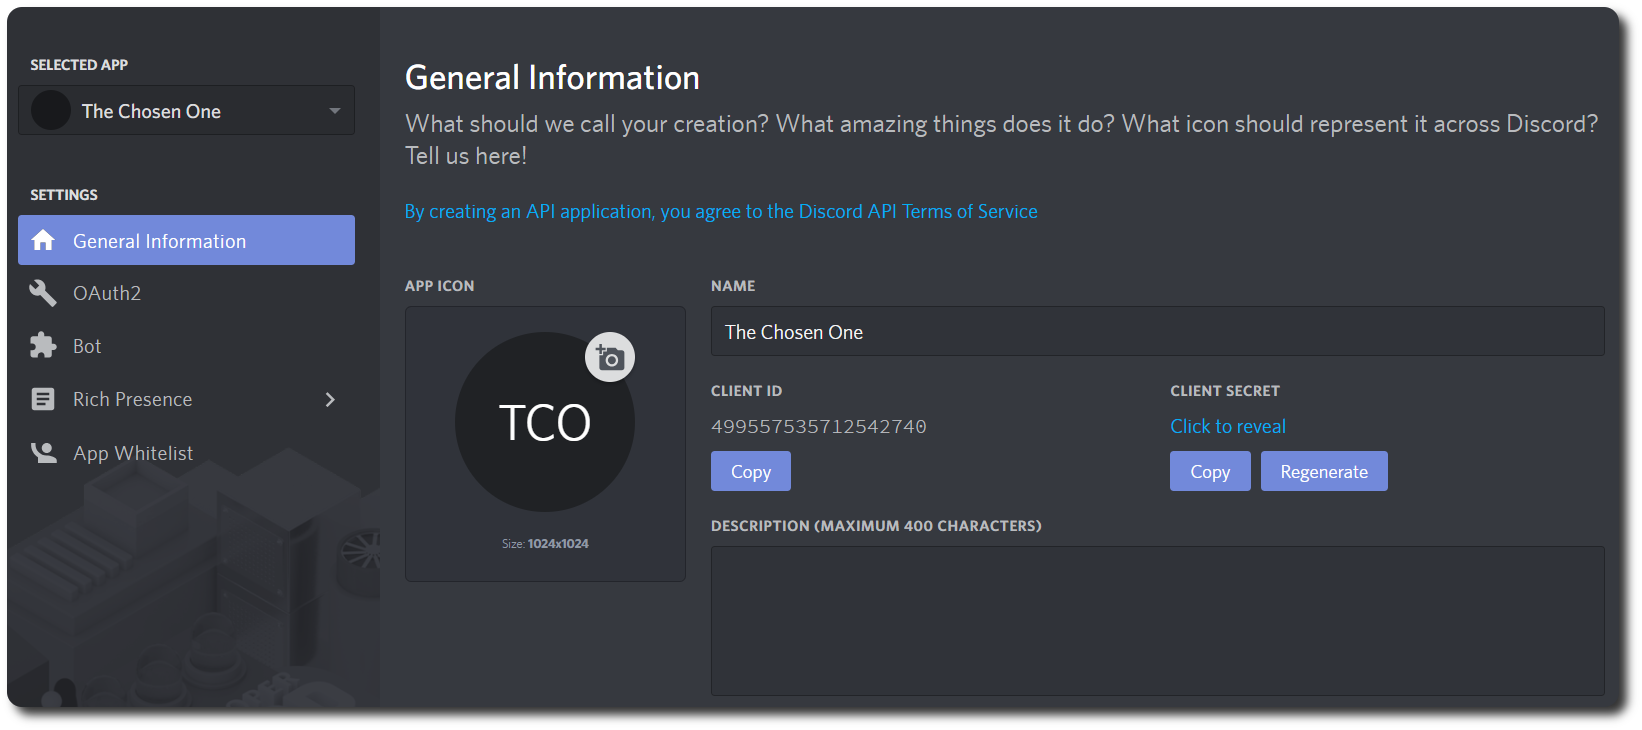
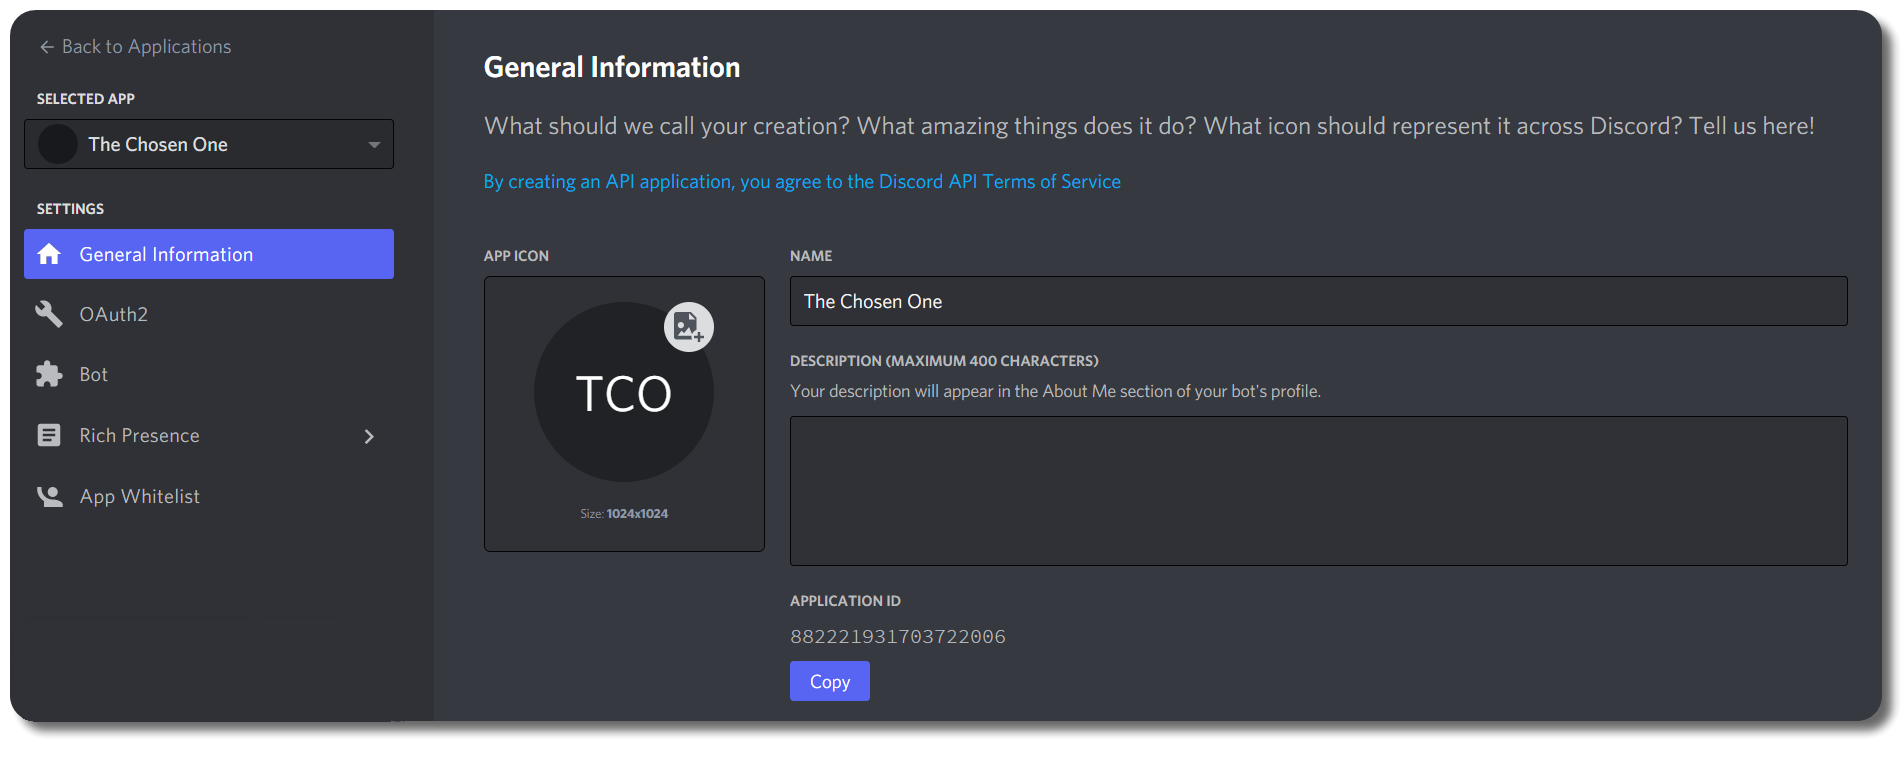
Change Client ID to Application ID (#10)

diff --git a/docs/Installation.md b/docs/Installation.md
@@ -54,13 +54,13 @@ BotToken: "MjE5NTE5OTk0MDUxMDM1MTQ3.CqTCYw.SFAbKtfK3ydTy1jx2-fTHUJqsPo"
 
 #### Invite the bot to your guild
 
-!!! note "Copy the `Client ID` from the application's `General Information` page."
-    ![!copy client id](images/copy_client_id.png)  
+!!! note "Copy the `Application ID` from the application's `General Information` page."
+    ![!copy client id](images/copy_application_id.png)  
 
-Go to the following URL and paste your `Client ID` to the page (`Ctrl + V`): https://scarsz.me/authorize
+Go to the following URL and paste your `Application ID` to the page (`Ctrl + V`): https://scarsz.me/authorize
 
 ??? hint "How does https://scarsz.me/authorize work?"
-    It loads a small client-side running script which checks for a valid client ID length and redirects back to discord.com for OAuth 2 authorization of your bot. Alternatively, you can manually append the client ID to the end of the following link and open it:  
+    It loads a small client-side running script which checks for a valid application ID length and redirects back to discord.com for OAuth 2 authorization of your bot. Alternatively, you can manually append the application ID to the end of the following link and open it:  
     `https://discordapp.com/oauth2/authorize?scope=bot+applications.commands&client_id=`
 
 !!! note "Select your guild, then click `Authorize`"
